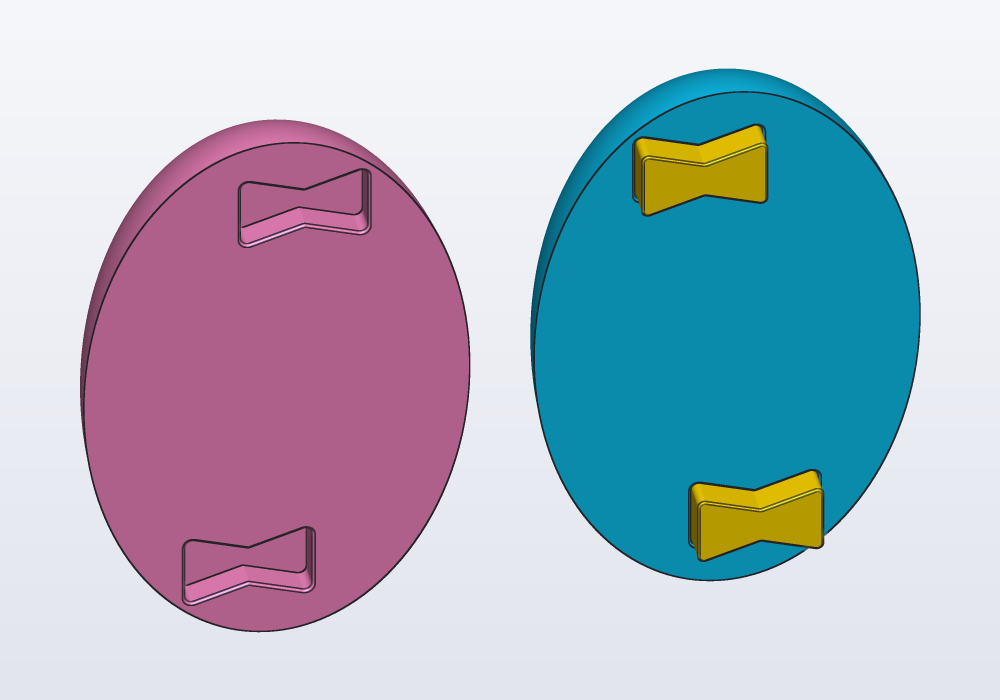
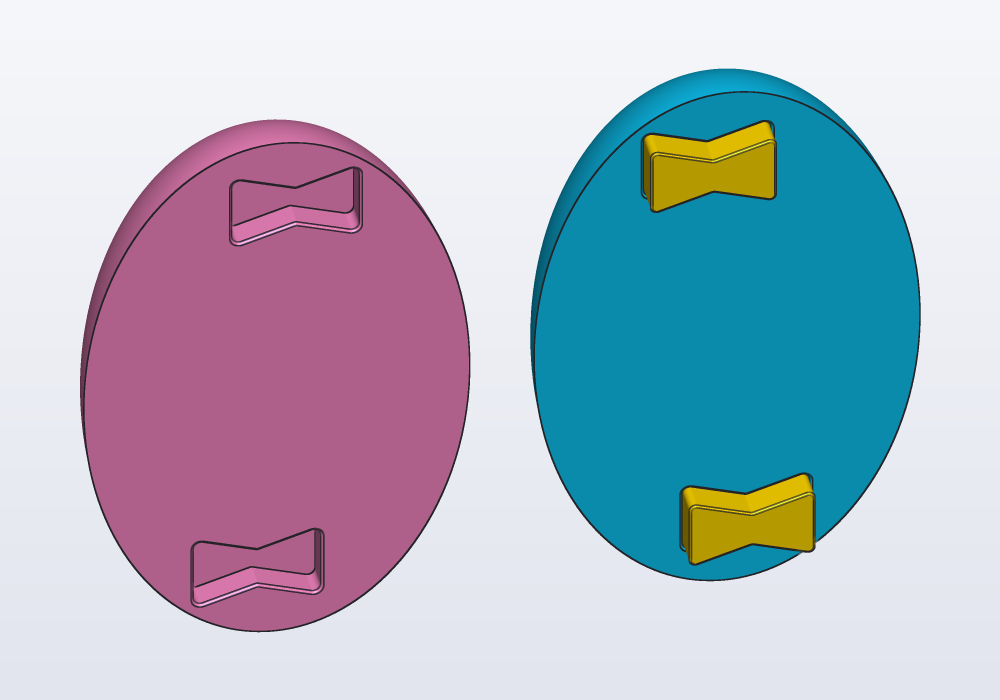
Molds: mold() makes a two-part mold round a part, cone keys, a seal ridge round the cavity, a pour hole and vents, both halves laid parting face up; spots keep their margin without offsetting the profile

diff --git a/docs/cheatsheet.html b/docs/cheatsheet.html
@@ -456,6 +456,10 @@ dd { margin: 0 0 0 12px; color: #4a5a54; }
 <dt>splitFlat(body: Solid, at: Plane, keys: int = 2, kind: string = "bowtie", size: Length = …, depth: Length = …, clearance: Length = …, wall: Length = …) → FlatSplit</dt><dd>`body` cut flat along the plane `at` into two halves, each printed lying on its cut face (nothing stands out of it, so it lies flat on the bed), joined by `keys` flat keys: a pocket in each half's cut face, half the key in each. The keys print lying flat too, and fit their pockets `clearance` apart; glue them in, or leave them dry to take apart.  The keys go where the cut has room for them, at least `wall` from its edges, as far apart as they can be. "bowtie" keys (butterflies, chigiri) keep the halves from sliding and from turning, even one alone; "disc" keys are round, two at least. `size` is a key's length (from the section's size unless given), `depth` how deep it goes into each half. The pockets open with a 0.4 mm chamfer: the first layers spread a little on the bed, and the pocket's mouth is on the bed.</dd>
 <dt>jointKinds: string[]</dt><dd></dd>
 </dl></section>
+<section><h2>import molds;</h2><dl>
+<dt>struct Mold(a: Solid, b: Solid, aPrint: Solid, bPrint: Solid)</dt><dd>The two halves of a mold, where they go and laid for printing.</dd>
+<dt>mold(object: Solid, at: Plane, wall: Length = …, keys: int = 4, sprue: Length = …, vents: int = 2, seal: Length = …, clearance: Length = …) → Mold</dt><dd>A two-part mold to cast `object` in (silicone, resin, plaster): a block `wall` thick round it, cut along the parting plane `at`, the object's shape hollow inside. The plane should cross the object where it is widest, so each half lets go of the cast.  - `keys` cones on a's parting face and their sockets in b's line the halves up (where the face has room, as far apart as they can be), `clearance` apart; - a seal round the cavity, a ridge `seal` high on a and its groove in b, keeps the liquid from creeping out between the halves (0.mm: none); - a pour hole `sprue` wide with a funnel, and `vents` thin channels for the air, go up through b from the cavity's highest points (along the plane's normal: put that side up when pouring).  Both halves print with the parting face up, on their outer faces (`aPrint`, `bPrint`): the keys and the seal stand up, the sockets and the groove open upwards, with no supports.</dd>
+</dl></section>
 <section><h2>Keys and mouse (on macOS, Cmd for Ctrl)</h2><dl>
 <dt>Right drag, or Shift + left drag</dt><dd>turns the view</dd>
 <dt>Middle drag, or Ctrl + left or right drag</dt><dd>moves the view</dd>

diff --git a/source/hackerscad/kernel/occt/shim.cpp b/source/hackerscad/kernel/occt/shim.cpp
@@ -2939,13 +2939,31 @@ hc_shape *hc_wrap_direct(const hc_shape *s, int face, const hc_shape *profile, i
     return wrap_impl(s, face, profile, project, at, dir, floor, 0, true);
 }
 
-// Up to n points inside the flat faces of `s` (in any plane), as far apart from each other as they can
-// be: a grid of points over each face kept where it lies inside, then the one farthest from their
+// Up to n points inside the flat faces of `s` (in any plane), at least `margin` from their edges, as far
+// apart from each other as they can be: a grid of points over each face kept where it lies inside, then the one farthest from their
 // middle, the one farthest from it, and so on, each the farthest from those chosen. x y z of each in
 // `out` (room for 3 n); how many there are.
-int hc_spots(const hc_shape *s, int n, double *out)
+int hc_spots(const hc_shape *s, int n, double margin, double *out)
 {
     return guarded<>(-1, [&]() -> int {
+        // the edges as points close together, to keep the candidates `margin` from them all
+        std::vector<gp_Pnt> rim;
+        if (margin > 0) {
+            const double step = std::max(margin / 6, 0.05);
+            for (TopExp_Explorer e(s->shape, TopAbs_EDGE); e.More(); e.Next()) {
+                BRepAdaptor_Curve c(TopoDS::Edge(e.Current()));
+                const double len = GCPnts_AbscissaPoint::Length(c);
+                const int k = std::max(2, (int)std::ceil(len / step));
+                for (int i = 0; i <= k; i++)
+                    rim.push_back(c.Value(c.FirstParameter() + (c.LastParameter() - c.FirstParameter()) * i / k));
+            }
+        }
+        auto clear = [&](const gp_Pnt &q) {
+            for (const gp_Pnt &r : rim)
+                if (q.SquareDistance(r) < margin * margin)
+                    return false;
+            return true;
+        };
         std::vector<gp_Pnt> cand;
         for (const TopoDS_Face &f : faces_of(s->shape)) {
             double u0, u1, v0, v1;
@@ -2956,8 +2974,11 @@ int hc_spots(const hc_shape *s, int n, double *out)
             for (int i = 0; i <= g; i++)
                 for (int j = 0; j <= g; j++) {
                     const gp_Pnt2d q(u0 + (u1 - u0) * i / g, v0 + (v1 - v0) * j / g);
-                    if (inside.Perform(q) == TopAbs_IN)
-                        cand.push_back(surf.Value(q.X(), q.Y()));
+                    if (inside.Perform(q) == TopAbs_IN) {
+                        const gp_Pnt p = surf.Value(q.X(), q.Y());
+                        if (clear(p))
+                            cand.push_back(p);
+                    }
                 }
         }
         if (cand.empty() || n < 1)

diff --git a/source/hackerscad/kernel/occt/shim.h b/source/hackerscad/kernel/occt/shim.h
@@ -82,7 +82,7 @@ hc_shape *hc_cut_all(const hc_shape *a, const hc_shape *const *tools, int n);
 hc_shape *hc_tiles(const hc_shape *const *motifs, int nm, const double *place, int n, const hc_shape *region, int mode, double minArea);
 hc_shape *hc_wrap_tool(const hc_shape *s, int face, const hc_shape *profile, int project, const double *at, const double *dir, double inner, double outer);
 hc_shape *hc_wrap_direct(const hc_shape *s, int face, const hc_shape *profile, int project, const double *at, const double *dir, double floor);
-int hc_spots(const hc_shape *s, int n, double *out);
+int hc_spots(const hc_shape *s, int n, double margin, double *out);
 int hc_wrap_skipped(void);
 hc_shape *hc_offset_solid(const hc_shape *s, double d, int sharp);
 int hc_touching_count(const hc_shape *s);

diff --git a/docs/LANGUAGE.md b/docs/LANGUAGE.md
@@ -180,6 +180,7 @@ This page lists everything in brief; the [guides by topic](GUIDES.md) explain ea
   - selectors combine: `edges.parallel(Z) - edges.of(faces.top)`, `faces.top + faces.bottom`, `a & b` (in both).
 - **Built-in libraries** (`import gears;` or `import std.gears;`, selective imports work too):
   - `joints`: `splitJoint(body, plane, kind: "tenon" | "dovetail" | "pins" | "fingers" | "lap" | "kama" | "kanawa", clearance: 0.2.mm, size:, length:, turn:, count:)` cuts a solid along a plane into two pieces that lock together without screws, as joiners join timber: a tenon, a dovetail sliding in sideways, round pins, a finger joint, a half lap, a gooseneck (kama tsugi), a half lap with hooks locked by a wedge (kanawa tsugi); it gives a `Joint` with `.a` (behind the plane), `.b` (in front of it) and `.loose` (the wedge), the hollows `clearance` larger; the joint sits in the middle of the cut, sized by the square root of the section's area unless `size:` says; `jointKinds` lists the kinds. For a part longer than the printer's bed. `splitFlat(body, plane, keys: 2, kind: "bowtie" | "disc", size:, depth:, clearance: 0.15.mm, wall: 1.6.mm)` cuts it into two halves with flat faces, each to print lying on its cut face, joined by flat keys (butterflies, chigiri) in pockets cut in both faces, placed where the cut has room, as far apart as they can be: a `FlatSplit` with `.a`, `.b`, `.keys` (in place), and laid for printing `.aPrint`, `.bPrint` (on their cut faces, on z = 0) and `.print` (the keys flat in a row). `profile.spots(n, margin:)` gives the points it uses: up to n inside a profile in any plane, at least margin from its edges, far apart.
+  - `molds`: `mold(part, plane, wall: 10.mm, keys: 4, sprue: 6.mm, vents: 2, seal: 0.8.mm, clearance: 0.15.mm)` a two-part mold to cast the part in (silicone, resin, plaster): a block round it cut along the parting plane (where the part is widest), the part hollow inside, cone keys on one half's parting face and sockets in the other, a seal ridge round the cavity and its groove, a pour hole with a funnel and vents up through the half in front of the plane; a `Mold` with `.a`, `.b` and, laid on their outer faces with the parting face up, `.aPrint`, `.bPrint`.
   - `hardware`: `Screw` sizes `M2`, `M2_5`, `M3`, `M4`, `M5`, `M6`, `M8`, `M10`, `M12`, unified inch `UNC4_40`, `UNC6_32`, `UNC8_32`, `UNC10_24`, `UNC1_4_20` (cameras and tripods), and self-tapping screws for plastic `ST2_2`, `ST2_9`, `ST3_5`, `ST4_2` (their `tap` is the hole they cut their thread in), with `d`, `pitch`, `tap`, `clearance`, `head`, `headHeight`, `key`, `nut`, `nutHeight`, `washer`, `insert`, `insertDepth`; `screw(M3, 20.mm, threaded: false, head: "socket" | "button" | "flat" | "hex" | "pan")` (ISO 4762, 7380, 10642, 4017, 7049; underside of the head on z = 0, a flat head's top), `headOf(M3, "button")` its `d`, `h`, `key`, `nut(M3, threaded: false)`, `washer(M3)`, `hexPrism(acrossFlats, h)`, `squareNut(M3)` (DIN 562, `squareNutSize`, `squareNutHeight`); tools to subtract, top on z = 0 going down: `hole(M3, depth, "clearance" | "tap" | "insert" | "counterbore" | "countersink" | "ribs", head: "socket")` (a counterbore sized for that head; `"ribs"` a hole the screw passes with three ribs along it, 120° apart and one towards -Y, the bottom one on a wall, that the screw cuts its thread into), `nutTrap(M3, depth)`, `squareNutSlot(M3, reach, clearance: 0.2.mm)` (centred on the axis, its middle on z = 0, open towards +X `reach` long, for the nut to slide in from the side); aluminium extrusions of the 20 and 30 series (2020, 3030, B-type slot, typical sizes): `extrusion(20, length)` (standing along Z, centred: a reference part), `extrusionSeries(20)` its sizes (`size`, `slot`, `lip`, `cavity`, `depth`, `bore`, `screw`), `tNut(20, length: 10.mm)` (a T-nut as it sits in a slot facing +Z, the face on z = 0, a tap hole for M5 or M6) and `slotKey(20, length)` (a key under a printed part, down from z = 0 into a slot, to keep it square to the extrusion).
   - `threads`: `threadedRod(d, pitch, length, chamfer: true, left: false)` (ISO metric profile, real geometry), `tappedHole(d, pitch, depth, clearance: 0.15.mm)` (a tool to subtract for an internal thread), `toothHeight(pitch)`. They are made with `isoThread(d:, pitch:, length:, chamfer:)`, a thread built exactly from its boundary (each corner of the profile on its own helix, a ruled face between two of them, one a turn) and cut to length: no sweep, no core to fuse; an M8 × 60 rod in about a second.
   - `gears`: `spurGear(m, teeth, thickness, bore: 0.mm, pressure: 20.deg, backlash: 0.1.mm, steps: 6)` (involute, centred, a tooth on +X), `gearProfile(m, teeth, …)`, `rack(m, teeth, thickness, base:, pressure: 20.deg, backlash: 0.1.mm)`, `pitchDiameter`, `outsideDiameter`, `rootDiameter`, `centerDistance(m, z1, z2)` (where to put two meshing gears; turn the second so a gap faces the first's tooth on +X: `rotate(z: 180.deg - 180.deg / z2)`, right for any number of teeth).

diff --git a/docs/guides/molds.md b/docs/guides/molds.md
@@ -1,0 +1,77 @@
+# Molds for casting
+
+A two-part mold to cast copies of a part in silicone, resin or plaster: a block round the part, cut in two along a parting plane, the part's shape hollow inside, with keys that line the halves up, a seal round the cavity so the liquid stays in, and a pour hole with vents for the air. The `molds` library makes it from the part itself.
+
+<!-- render: molds-open --from 0.3,-1,1.2 -->
+```d
+// a mold to cast Carlo in silicone, open: the lower half
+// with its keys and the seal, the upper one turned over
+
+import carlo;
+import molds;
+
+Mold carloMold() => mold(carlo(),
+    plane(origin: vec(0.mm, 0.mm, 7.5.mm), normal: Z));
+
+@part("Sky Pop")
+Solid lower() => carloMold().a;
+
+@part("Pink Pop")
+Solid upper() => carloMold().b
+    .rotate(x: 180)
+    .move(y: 50.mm, z: 35.mm);
+```
+
+![A mold for Carlo, open: keys and seal on one half, sockets and groove on the other](img/molds-open.png)
+
+## The mold
+
+`mold(part, plane)` gives a `Mold`: the halves where they go (`.a` behind the plane, `.b` in front of it) and laid for printing (`.aPrint`, `.bPrint`). The block is `wall` thick round the part (10 mm unless given) and rounded at its upright edges.
+
+The **parting plane** decides whether the cast comes out: it must cross the part where it is widest, so that nothing of the part hides behind something else seen from either side. A part lying flat (Carlo) parts at half its height; an egg or a figure parts through its middle, along its length.
+
+- **Keys** line the halves up: truncated cones on `a`'s parting face, their sockets in `b`'s, `clearance` larger (0.15 mm unless given), as many as `keys:` (4 unless given), placed where the face has room, as far apart as they can be.
+- **The seal** keeps the liquid from creeping out between the halves: a ridge round the cavity on `a`, `seal` high (0.8 mm unless given), pressing into a groove in `b`. `seal: 0.mm` leaves it out.
+- **The pour hole** goes up through `b` from just under the cavity's top, along the plane's normal, `sprue` wide (6 mm unless given) and opening into a funnel at the block's face; `vents:` thinner channels (2 unless given) let the air out from other high points. Pour with `b` on top.
+
+Each half prints on its outer face, the parting face up: the keys and the seal stand up, the sockets, the groove and the cavity open upwards, and nothing needs supports.
+
+<!-- render: molds-print --from 0.3,-1,1.2 -->
+```d
+// the same mold laid for printing: both halves on their
+// outer faces, the parting faces up
+
+import carlo;
+import molds;
+
+Mold carloMold() => mold(carlo(),
+    plane(origin: vec(0.mm, 0.mm, 7.5.mm), normal: Z));
+
+@part("Sky Pop")
+Solid lower() => carloMold().aPrint;
+
+@part("Pink Pop")
+Solid upper() => carloMold().bPrint.move(x: 70.mm);
+```
+
+![Both halves of the mold on their outer faces, ready to print](img/molds-print.png)
+
+## Casting
+
+- Print the halves with fine layers where the cavity is (they show on the cast) and 100% infill round it, or the block flexes under clamps.
+- Smooth the cavity if the surface matters: layer lines print onto the cast. A coat of primer, sanded, or XTC-3D does it.
+- Silicone does not stick to PLA or PETG, but platinum silicone cures badly against some resins and fresh prints: test a drop first, or seal the mold with a varnish. For resin or plaster casts, a mold release.
+- Clamp the halves or tape them round, pour slowly into the funnel until the liquid shows in the vents, and tap the mold to bring up the bubbles.
+
+## Common errors
+
+| Message | What to do |
+|---|---|
+| *mold: no room for the keys on the parting face* | a thicker `wall:`, fewer `keys:`, or `seal: 0.mm` |
+| the cast does not come out | the parting plane does not cross the part where it is widest: move it, or turn it |
+| *undefined identifier 'mold'* | `import molds;` |
+
+## In the application
+
+- The halves are ordinary parts: export them together (one bed) or each on its own.
+- A section through the mold shows the cavity, the seal and the keys at once: see [Planes](planes.md).

diff --git a/docs/CHEATSHEET.md b/docs/CHEATSHEET.md
@@ -450,6 +450,11 @@ s is a Solid, p a Profile, f a Frame; every value is immutable: operations give 
 - `splitFlat(body: Solid, at: Plane, keys: int = 2, kind: string = "bowtie", size: Length = …, depth: Length = …, clearance: Length = …, wall: Length = …) → FlatSplit` — `body` cut flat along the plane `at` into two halves, each printed lying on its cut face (nothing stands out of it, so it lies flat on the bed), joined by `keys` flat keys: a pocket in each half's cut face, half the key in each. The keys print lying flat too, and fit their pockets `clearance` apart; glue them in, or leave them dry to take apart.  The keys go where the cut has room for them, at least `wall` from its edges, as far apart as they can be. "bowtie" keys (butterflies, chigiri) keep the halves from sliding and from turning, even one alone; "disc" keys are round, two at least. `size` is a key's length (from the section's size unless given), `depth` how deep it goes into each half. The pockets open with a 0.4 mm chamfer: the first layers spread a little on the bed, and the pocket's mouth is on the bed.
 - `jointKinds: string[]`
 
+## Library: import molds;
+
+- `struct Mold(a: Solid, b: Solid, aPrint: Solid, bPrint: Solid)` — The two halves of a mold, where they go and laid for printing.
+- `mold(object: Solid, at: Plane, wall: Length = …, keys: int = 4, sprue: Length = …, vents: int = 2, seal: Length = …, clearance: Length = …) → Mold` — A two-part mold to cast `object` in (silicone, resin, plaster): a block `wall` thick round it, cut along the parting plane `at`, the object's shape hollow inside. The plane should cross the object where it is widest, so each half lets go of the cast.  - `keys` cones on a's parting face and their sockets in b's line the halves up (where the face has room, as far apart as they can be), `clearance` apart; - a seal round the cavity, a ridge `seal` high on a and its groove in b, keeps the liquid from creeping out between the halves (0.mm: none); - a pour hole `sprue` wide with a funnel, and `vents` thin channels for the air, go up through b from the cavity's highest points (along the plane's normal: put that side up when pouring).  Both halves print with the parting face up, on their outer faces (`aPrint`, `bPrint`): the keys and the seal stand up, the sockets and the groove open upwards, with no supports.
+
 ## How do I…
 
 - Copy a solid (values never change: use it again): `auto b = a.move(x: 20.mm);`

diff --git a/docs/GUIDES.md b/docs/GUIDES.md
@@ -80,6 +80,12 @@ Boxes, trays and cases with lids: the `enclosures` library (`roundedBox`, `tray`
 
 A part too long for the printer's bed, cut in two pieces that lock together with no screws and no glue, as joiners join timber: tenons, dovetails, pins, finger joints, half laps, the gooseneck and the wedged scarf of Japanese carpentry. Or a part cut into two halves with flat faces, each printed lying on its cut face, joined by flat keys. The `joints` library cuts a solid along a plane and shapes both sides of the cut.
 
+### [Molds for casting](guides/molds.md)
+
+[<img src="guides/img/molds-open.png" width="420" alt="Molds for casting">](guides/molds.md)
+
+A two-part mold to cast copies of a part in silicone, resin or plaster: a block round the part, cut in two along a parting plane, the part's shape hollow inside, with keys that line the halves up, a seal round the cavity so the liquid stays in, and a pour hole with vents for the air. The `molds` library makes it from the part itself.
+
 ### [Parameters, presets and checks](guides/parameters.md)
 
 [<img src="guides/img/parameters-carlo.png" width="420" alt="Parameters, presets and checks">](guides/parameters.md)

diff --git a/docs/AGENTS.md b/docs/AGENTS.md
@@ -12,12 +12,12 @@ reference first and follow the rules below.
 
 ## Setup and updates
 
-This text was made by hcad 0.3.1 (docs stamp `0.3.1-28059e71`). Before the first
+This text was made by hcad 0.3.1 (docs stamp `0.3.1-9ba5b9c7`). Before the first
 model of a session, run `hcad docs --stamp` (`hcad` may be a full path, or the
 AppImage followed by the word `hcad`; with the MCP server, hcad_docs with
 format stamp):
 
-- **It prints `0.3.1-28059e71`:** this text is up to date.
+- **It prints `0.3.1-9ba5b9c7`:** this text is up to date.
 - **It prints something else:** hackerscad was updated and this text is
   older or newer than it. Installed as a skill, refresh it in place:
   `hcad docs --skill` into this SKILL.md, `hcad docs` into the llms-full.txt

diff --git a/docs/SKILL.md b/docs/SKILL.md
@@ -17,12 +17,12 @@ reference first and follow the rules below.
 
 ## Setup and updates
 
-This text was made by hcad 0.3.1 (docs stamp `0.3.1-28059e71`). Before the first
+This text was made by hcad 0.3.1 (docs stamp `0.3.1-9ba5b9c7`). Before the first
 model of a session, run `hcad docs --stamp` (`hcad` may be a full path, or the
 AppImage followed by the word `hcad`; with the MCP server, hcad_docs with
 format stamp):
 
-- **It prints `0.3.1-28059e71`:** this text is up to date.
+- **It prints `0.3.1-9ba5b9c7`:** this text is up to date.
 - **It prints something else:** hackerscad was updated and this text is
   older or newer than it. Installed as a skill, refresh it in place:
   `hcad docs --skill` into this SKILL.md, `hcad docs` into the llms-full.txt
